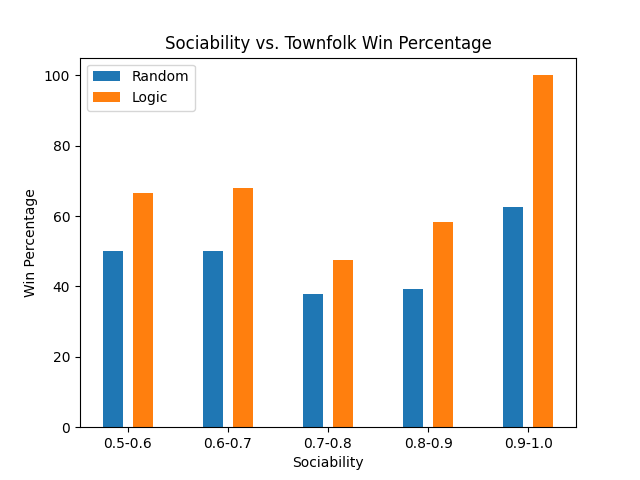
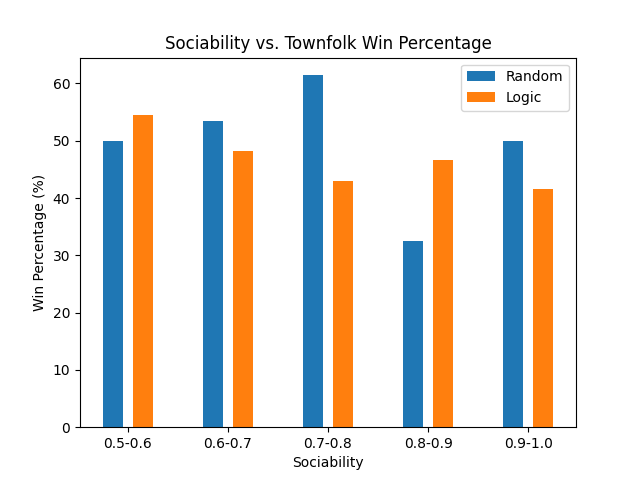
added random strategy to simulation results

diff --git a/phases/day.py b/phases/day.py
@@ -56,7 +56,6 @@ class Day:
                 self.ks.model.solve_a("agent" + str(agent1.get_ID()), formula)
 
     # Perform a talking round
-
     def talking_round(self, round):
         if self.verbose:
             print("--- Round " + str(round) + " ---")
@@ -94,7 +93,7 @@ class Day:
             print("Nobody wanted to talk!")
 
     # Allows agents to vote based on their knowledge
-    def voting_phase(self):
+    def voting_phase(self, vote_randomly = False):
         if self.verbose:
             print("-------------------------------- Voting phase has started --------------------------------\n")
         votes = {}
@@ -119,7 +118,7 @@ class Day:
                                 vote = agent
                                 break
                         # If no luck yet, pick randomly
-                        if vote == None:
+                        if vote == None or vote_randomly:
                             vote = random.choice([agent for agent in vote_players if agent.get_ID(
                             ) != player.get_ID() and agent.alive])
                 else:
@@ -146,7 +145,7 @@ class Day:
                                     vote = agent
                                     break
                         # If no luck yet, pick randomly
-                        if vote == None:
+                        if vote == None or vote_randomly:
                             vote = random.choice([agent for agent in vote_players if agent.get_ID(
                             ) != player.get_ID() and agent.alive])
                     pass

diff --git a/MafiaGame.py b/MafiaGame.py
@@ -92,7 +92,7 @@ class MafiaGame:
         return self
 
     # Game loop
-    def start(self):
+    def start(self, kill_randomly = False, vote_randomly = False):
         n_v, n_d, n_m = self.count_roles()
         if self.verbose:
             print("In this game there are", n_v, "villagers,",
@@ -118,7 +118,7 @@ class MafiaGame:
                             self.ks.visualize(str("Agent " + str(self.players.index(
                                 player)+1) + " (detective) discovered the role of agent " + str(self.players.index(discovered_player)+1) + " (" + str(discovered_player.role)+")"))
 
-            killed_player = self.night.mafia_phase()
+            killed_player = self.night.mafia_phase(kill_randomly)
             killed_player.alive = False
 
             #Public announcement of the killed player
@@ -138,7 +138,7 @@ class MafiaGame:
             self.day.discussion_phase()
 
             #Voting
-            voted_player = self.day.voting_phase()
+            voted_player = self.day.voting_phase(vote_randomly)
             voted_player.alive = False
 
             #Public announcement of the voted player

diff --git a/phases/night.py b/phases/night.py
@@ -11,7 +11,7 @@ class Night:
         self.n_mafia = n_mafia
         self.n_detectives = n_detectives
 
-    def mafia_phase(self):
+    def mafia_phase(self, kill_randomly = False):
         if self.verbose:
             print(
                 "-------------------------------- Mafia phase has started --------------------------------\n")
@@ -30,7 +30,7 @@ class Night:
                     targets.append(player)
 
         voted_player = random.choice(killable_players)
-        if len(targets) != 0:
+        if len(targets) != 0 and not kill_randomly:
             voted_player = random.choice(targets)
 
         return voted_player

diff --git a/main.py b/main.py
@@ -15,9 +15,12 @@ def main():
    }
 
    for strategy in ["Random", "Logic"]:
-      for run in range(100):
+      for run in range(1000):
             mafiaGame = MafiaGame(1, 1, 1, visualize_ks=False, verbose=False)
-            result = mafiaGame.start()
+            if strategy == "Random":
+                result = mafiaGame.start(True, True)
+            elif strategy == "Logic":
+                result = mafiaGame.start()
             results[strategy][result].append(mafiaGame.get_avg_sociability()) 
 
    plot_sociability_box(results)

diff --git a/roles/agent.py b/roles/agent.py
@@ -5,7 +5,7 @@ class Agent():
 
     def __init__(self, role, id, suspicious=False):
         self.knowledge = []
-        self.sociability = random.uniform(0.5, 1)
+        self.sociability = random.uniform(0, 1)
         self.suspicious = suspicious
         self.alive = True
         self.role = role
